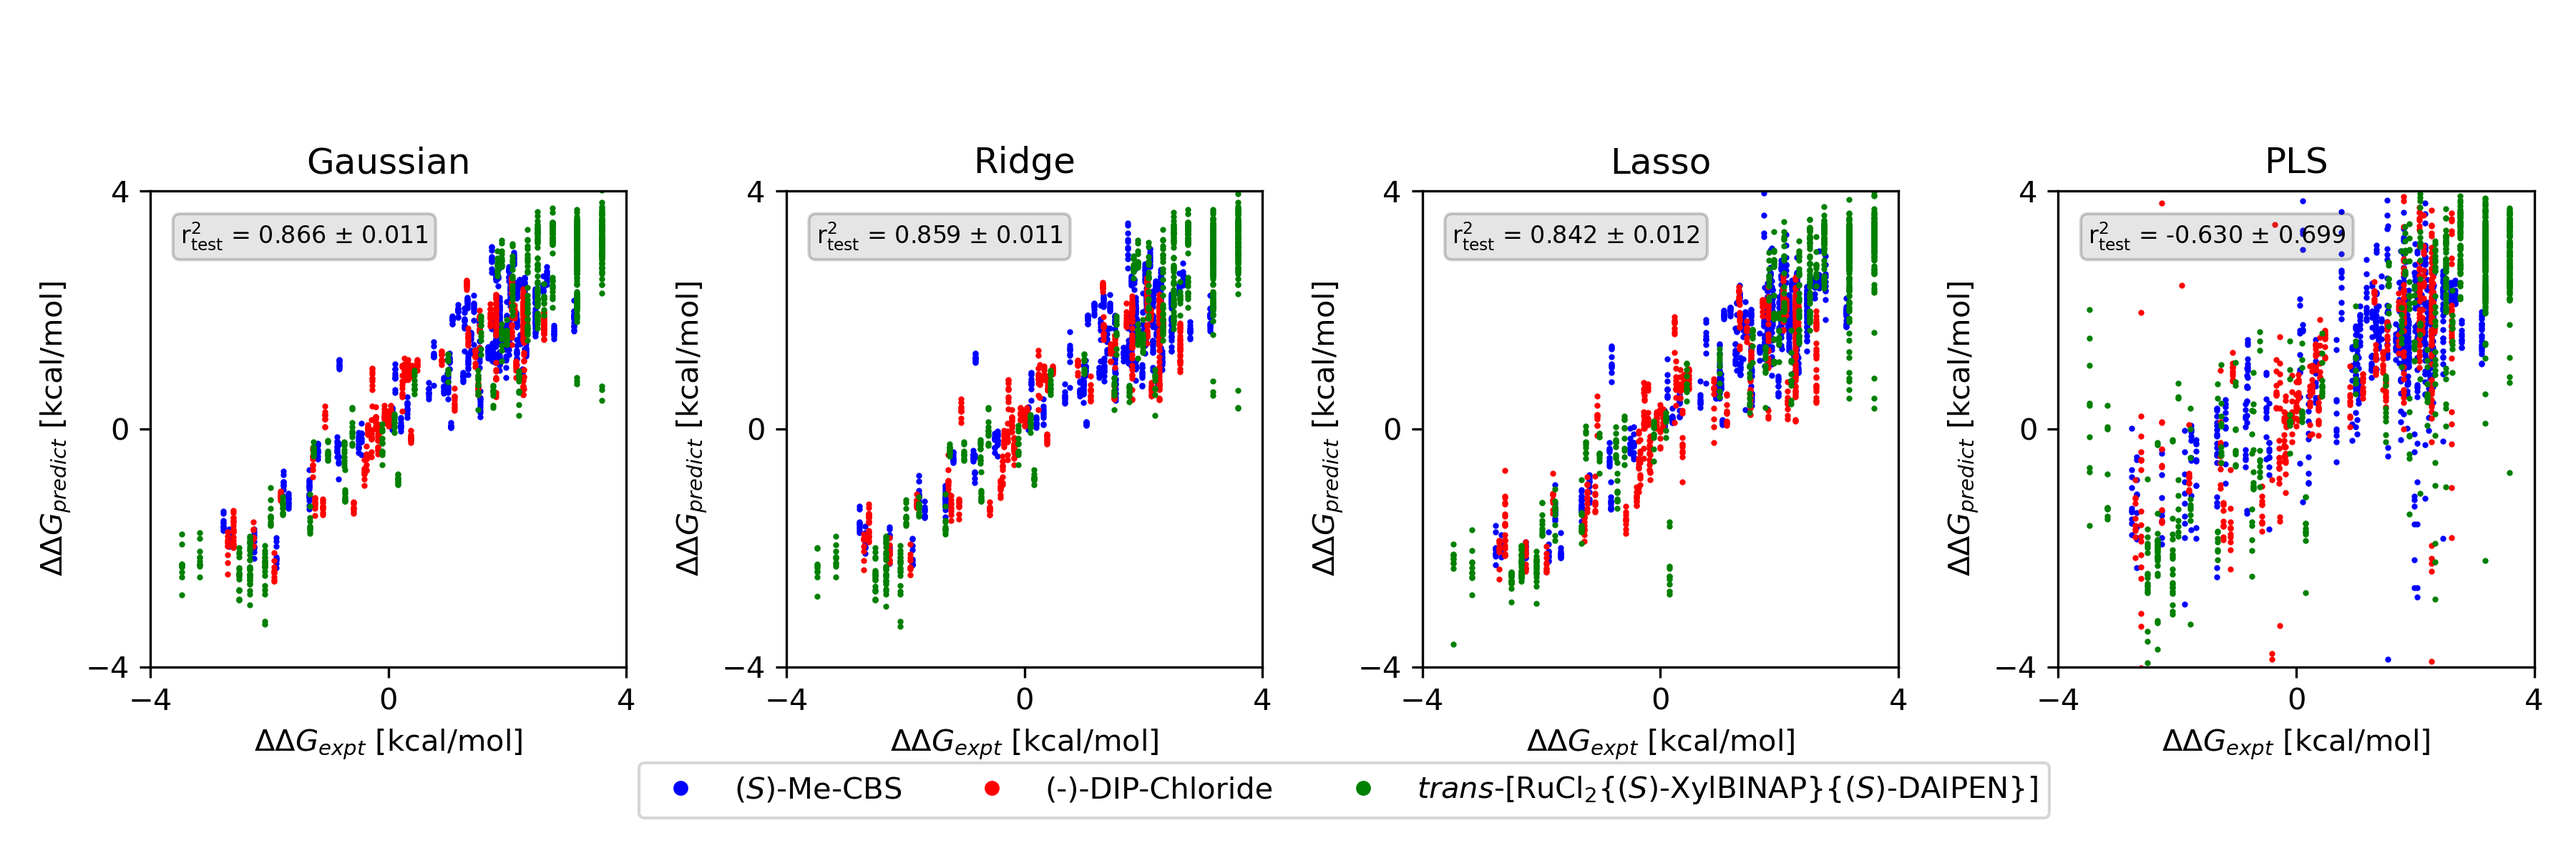
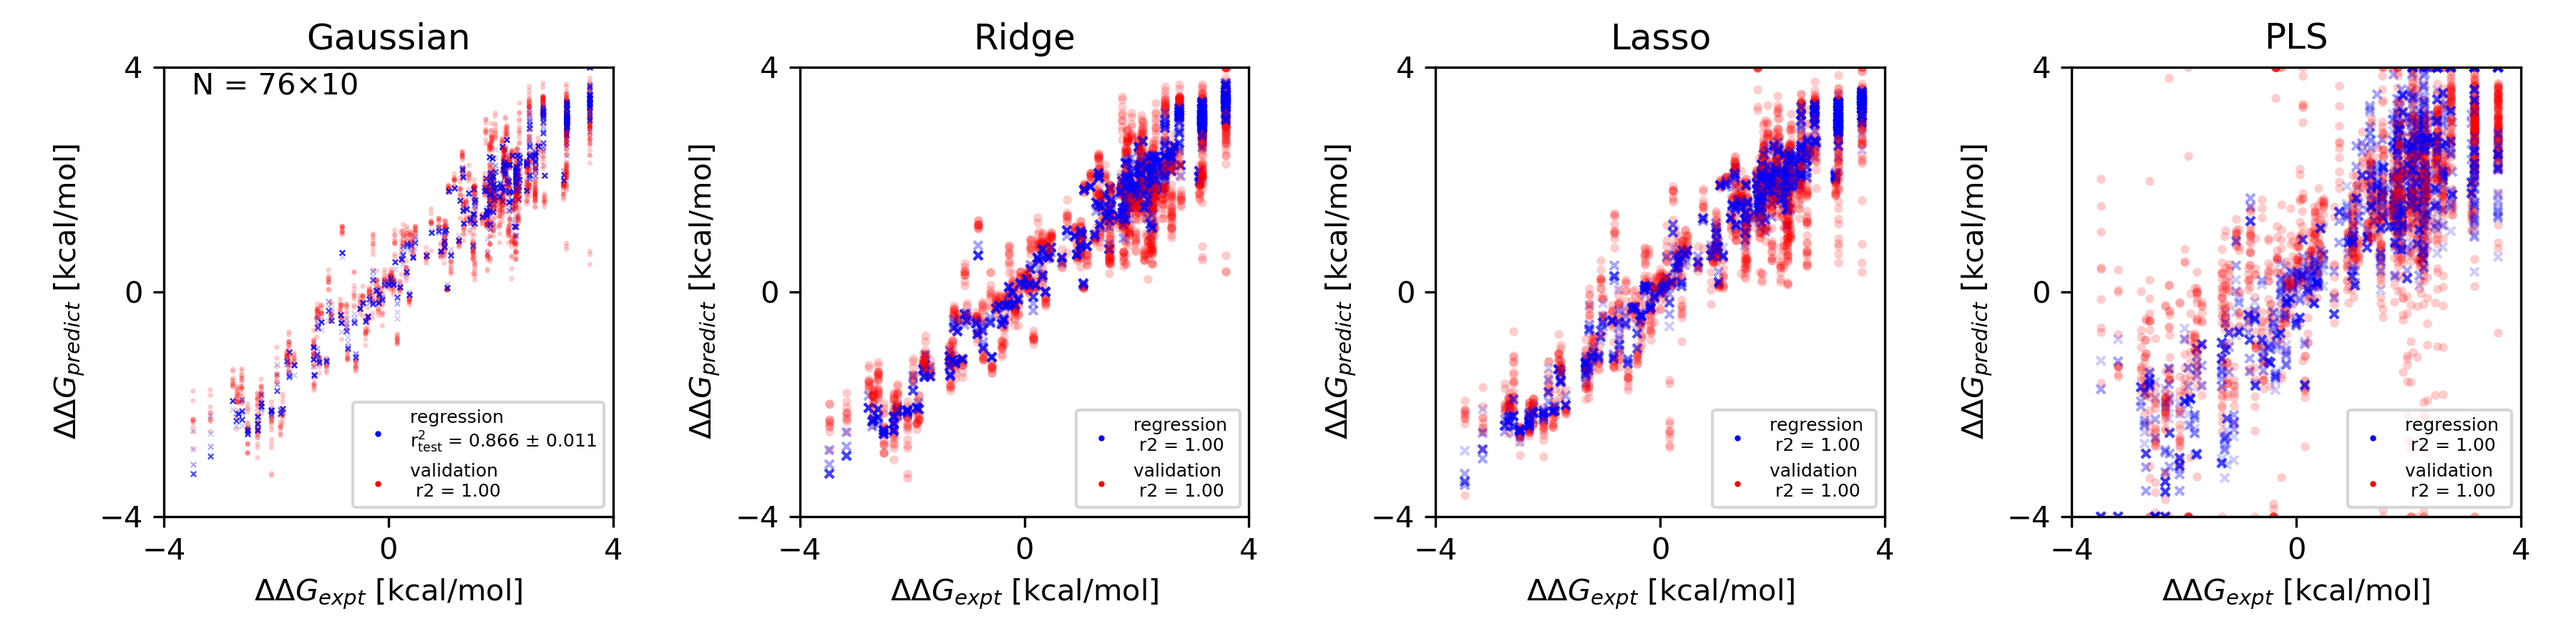
from win

diff --git a/CoMFA_model_lib/graph.py b/CoMFA_model_lib/graph.py
@@ -8,7 +8,6 @@ import numpy as np
 import pandas as pd
 import seaborn as sns
 from matplotlib import cm
-from scipy import stats
 from sklearn.metrics import mean_squared_error, r2_score
 
 # time.sleep(60*60*6)
@@ -79,13 +78,19 @@ for param_name in sorted(glob.glob("../parameter/cube_to_grid/cube_to_grid0.2505
             file_name = os.path.splitext(os.path.basename(file))[0]
             ax = fig.add_subplot(1, 3, i)
             plt.xscale("log")
-            # ax2 = ax.twiny()
+
+            ax2 = ax.twiny()
+            plt.xscale("log")
+
             ax.set_title(label)
             # ax.set_ylim(0.5, 3)
             # ax.set_yticks([0.5, 1.0, 1.5, 2.0, 2.5, 3.0])
             ax.set_ylim(0, 1.0)
-            ax.set_yticks([0.5,  0.6,0.7,0.8,0.9,1.0])
-            ax.set_xticks([0.001, 1, 100])
+            # ax2.set_xlim(100,10000)
+            ax.set_yticks([0.0,0.5,1.0])
+            ax.set_xticks([1, 10,100])
+            ax2.set_xticks([0.01,0.1,1])
+
             # Gaussian = []
             # Lasso = []
             # Ridge = []
@@ -99,22 +104,33 @@ for param_name in sorted(glob.glob("../parameter/cube_to_grid/cube_to_grid0.2505
                 # dfp["method"] = "Gaussian"
                 # dfp["Gaussian"]=True
                 # dfps.append(dfp.copy())
-                for columns in dfp.columns:
+                for _,columns in enumerate(sorted(dfp.columns)):
                     if re.match("Gaussian..*_validation_RMSE", columns):#"Gaussian" in columns and "_validation_RMSE" in columns:
-                        dfp[["regression_r2","validation_r2"]] = dfp[[columns[:-16]+"_regression_RMSE",columns]]
-                        dfp["method"] = "1"+columns[:-16]+""
+                        dfp[["regression_RMSE","validation_RMSE"]] = dfp[[columns[:-16]+"_regression_RMSE",columns]]
+                        dfp["sort"]=_
+                        dfp["method"] = columns[:-16]+""
                         dfp["Gaussian"]=True
+                        dfp["size"]=2
                         dfps.append(dfp.copy())
-                dfp[["regression_r2","validation_r2"]] = dfp[["Lasso_regression_RMSE","Lasso_validation_RMSE"]]
-                dfp["method"] = "3Lasso"
+                # dfp[["regression_r2","validation_r2"]] = dfp[["PLS_regression_RMSE","PLS_validation_RMSE"]]
+                # dfp["method"] = "4PLS"
+                # dfp["Gaussian"]=False
+                # dfps.append(dfp.copy())
+                
+
+                dfp[["regression_RMSE","validation_RMSE"]] = dfp[["Ridge_regression_RMSE","Ridge_validation_RMSE"]]
+                dfp["method"] = "Ridge"
+                dfp["sort"]=_+2
+                dfp["size"]=2
                 dfp["Gaussian"]=False
                 dfps.append(dfp.copy())
-
-                dfp[["regression_r2","validation_r2"]] = dfp[["Ridge_regression_RMSE","Ridge_validation_RMSE"]]
-                dfp["method"] = "2Ridge"
+                dfp[["regression_RMSE","validation_RMSE"]] = dfp[["Lasso_regression_RMSE","Lasso_validation_RMSE"]]
+                dfp["lambda"]/=100
+                dfp["method"] = "Lasso"
+                dfp["sort"]=_+3
+                dfp["size"]=2
                 dfp["Gaussian"]=False
                 dfps.append(dfp.copy())
-
                 # dfp["validation_r2"] = dfp["PLS_validation_RMSE"]
                 # dfp["method"] = "PLS"
                 # dfp["n"] = range(1, len(dfp["lambda"]) + 1)
@@ -137,10 +153,14 @@ for param_name in sorted(glob.glob("../parameter/cube_to_grid/cube_to_grid0.2505
             
             # sns.lineplot(x="lambda", y="validation_r2", data=dfs[(dfs["method"]==column)&dfs["Gaussian"]].sort_values(["method"]), hue="method",errorbar=None,
             #              legend=None, palette="jet_r", ax=ax)
-            sns.lineplot(x="lambda", y="validation_r2", data=dfs.sort_values(["method"],ascending=False), hue="method",errorbar=None,style="method",
+            sns.lineplot(x="lambda", y="validation_RMSE", data=dfs[dfs["method"]=="Lasso"].sort_values(["sort"],ascending=False), hue="method",errorbar=None,style="method",
+                         legend="full" if i==3 else None, color="black", ax=ax2,alpha=1)
+            sns.lineplot(x="lambda", y="regression_RMSE", data=dfs[dfs["method"]=="Lasso"].sort_values(["sort"],ascending=False), hue="method",errorbar=None,style="method",
+                         legend= None, color="black", ax=ax2,alpha=1,size="size")
+            sns.lineplot(x="lambda", y="validation_RMSE", data=dfs[dfs["method"]!="Lasso"].sort_values(["sort"],ascending=False), hue="method",errorbar=None,style="method",
                          legend="full" if i==3 else None, palette="jet_r", ax=ax,alpha=1)
-            sns.lineplot(x="lambda", y="regression_r2", data=dfs.sort_values(["method"],ascending=False), hue="method",errorbar=None,style="method",
-                         legend= None, palette="jet_r", ax=ax,alpha=1)
+            sns.lineplot(x="lambda", y="regression_RMSE", data=dfs[dfs["method"]!="Lasso"].sort_values(["sort"],ascending=False), hue="method",errorbar=None,style="method",
+                         legend= None, palette="jet_r", ax=ax,alpha=1,size="size")
             
             # ax.fill_between(dfs[dfs["method"]=="3Lasso"]["lambda"], dfs[dfs["method"]=="3Lasso"]["validation_r2"]+0.1, dfs[dfs["method"]=="3Lasso"]["validation_r2"]-0.1, alpha=0.1)
             # sns.lineplot(x="lambda", y="validation_r2", data=dfs[~dfs["Gaussian"]].sort_values(["method"]), hue="method", palette="winter",errorbar="ci",
@@ -155,11 +175,17 @@ for param_name in sorted(glob.glob("../parameter/cube_to_grid/cube_to_grid0.2505
             # # 結果の表示
             # print('t統計量 =', t_stat, 'p値 =', p_value)
             # ax.plot([], [], "-", label="PLS\n(≧{:.2f})".format(np.min(np.average(PLS, axis=0))), color="orange", alpha=1)
-            ax.set_xlabel("λ", fontsize=10)
+            ax.set_xlabel("λ (Gaussian, Ridge)", fontsize=10)
+            ax2.set_xlabel("λ (Lasso)", fontsize=10)
+
             # ax2.set_xlabel("n_components", fontsize=10)
             ax.set_ylabel("RMSE [kcal/mol]", fontsize=10)  # $r^2_{test}$
             # ax2.set_xticks([1, 5, 10, 15])  # print("Gaussian", np.std(Gaussian, axis=0))
-        ax.legend(bbox_to_anchor=(1, 1), loc='upper left', fontsize=6, ncols=1)
+        lines_labels=[ax.get_legend_handles_labels() for ax in [ax2,ax]]
+        lines, labels=[sum(lol,[]) for lol in zip(*lines_labels)]
+        ax.legend(lines,labels,bbox_to_anchor=(1, 1), loc='upper left', fontsize=6, ncols=1)
+        ax2.get_legend().remove()
+        # ax2.legend(bbox_to_anchor=(1, 1), loc='upper left', fontsize=6, ncols=1)
 
         fig.tight_layout()
         plt.savefig(param["fig_dir"] + "/λ_result.png", transparent=False, dpi=300)
@@ -206,7 +232,7 @@ for param_name in sorted(glob.glob("../parameter/cube_to_grid/cube_to_grid0.2505
         fig.tight_layout()
         plt.savefig(param["fig_dir"] + "/test_predict.png", transparent=False, dpi=300)
 
-    fig = plt.figure(figsize=(3 * 4, 3 * 1 + 1))
+    fig = plt.figure(figsize=(3 * 4, 3 * 1))
     ax = []
     for _, name in zip(range(4), ["Gaussian", "Ridge", "Lasso", "PLS"]):
         ax_ = fig.add_subplot(1, 4, _ + 1)
@@ -226,14 +252,18 @@ for param_name in sorted(glob.glob("../parameter/cube_to_grid/cube_to_grid0.2505
     #                                          "(-)-DIP-Chloride",
     #                                       "$trans$-[RuC$\mathrm{l_2}${($S$)-XylBINAP}{($S$)-DAIPEN}]",
     #                                      ])):
-    # Gaussians = []
-    # Ridges = []
-    # Lassos = []
-    # PLSs = []
+    Gaussians = []
+    Ridges = []
+    Lassos = []
+    PLSs = []
     Gaussian = [[] for _ in range(rang)]
     Ridge = [[] for _ in range(rang)]
     Lasso = [[] for _ in range(rang)]
     PLS = [[] for _ in range(rang)]
+    Gaussian_regressions = [[] for _ in range(rang)]
+    Ridge_regressions = [[] for _ in range(rang)]
+    Lasso_regressions = [[] for _ in range(rang)]
+    PLS_regressions = [[] for _ in range(rang)]
     exp = []
     for h, (file, data) in enumerate(zip(["../arranged_dataset/cbs.xlsx", "../arranged_dataset/DIP-chloride.xlsx",
                                           "../arranged_dataset/RuSS.xlsx"], ["($S$)-Me-CBS", "(-)-DIP-Chloride",
@@ -243,48 +273,95 @@ for param_name in sorted(glob.glob("../parameter/cube_to_grid/cube_to_grid0.2505
         Ridge_ = []
         Lasso_ = []
         PLS_ = []
+        Gaussian_regression = []
+        Ridge_regression = []
+        Lasso_regression = []
+        PLS_regression = []
         for _ in range(rang):
             save_path = param["out_dir_name"] + "/" + file_name + "/" + str(_)
             dfp = pd.read_excel(save_path + "/λ_result.xlsx").sort_values(["smiles"])
             rmse=np.inf
             for columns in dfp.columns:
-                if "Gaussian" in columns and "_validation" in columns:
+                if "Gaussian0.50" in columns and "_validation" in columns:
                     print(columns)
                     rmse_ = mean_squared_error(dfp["ΔΔG.expt."], dfp[columns],squared=False)
-                    print(rmse_)
+                    # print(rmse_)
                     if rmse_ < rmse:
                         rmse=rmse_
                         column=columns
 
-            Gaussian_.append(dfp[column].values.tolist())#"Gaussian1.00_validation"
-            Ridge_.append(dfp["Ridge_validation"].values.tolist())
-            Lasso_.append(dfp["Lasso_validation"].values.tolist())
-            PLS_.append(dfp["PLS_validation"].values.tolist())
+            Gaussian_.append(dfp[column].where(dfp[column].abs()<4,4*np.sign(dfp[column].values)).values.tolist())#"Gaussian1.00_validation"
+            Ridge_.append(dfp["Ridge_validation"].where(dfp["Ridge_validation"].abs()<4,4*np.sign(dfp["Ridge_validation"].values)).values.tolist())
+            Lasso_.append(dfp["Lasso_validation"].where(dfp["Lasso_validation"].abs()<4,4*np.sign(dfp["Lasso_validation"].values)).values.tolist())
+            PLS_.append(dfp["PLS_validation"].where(dfp["PLS_validation"].abs()<4,4*np.sign(dfp["PLS_validation"].values)).values.tolist())
+            
+            Gaussian_regressions[_].extend(dfp[column[:-11]+"regression"].where(dfp[column].abs()<4,4*np.sign(dfp[column].values)).values.tolist())#"Gaussian1.00_validation"
+            Ridge_regressions[_].extend(dfp["Ridgeregression"].where(dfp["Ridgeregression"].abs()<4,4*np.sign(dfp["Ridgeregression"].values)).values.tolist())
+            Lasso_regressions[_].extend(dfp["Lassoregression"].where(dfp["Lassoregression"].abs()<4,4*np.sign(dfp["Lassoregression"].values)).values.tolist())
+            PLS_regressions[_].extend(dfp["PLSregression"].where(dfp["PLSregression"].abs()<4,4*np.sign(dfp["PLSregression"].values)).values.tolist())
+            Gaussian_regression.append(dfp[column[:-11]+"regression"].where(dfp[column].abs()<4,4*np.sign(dfp[column].values)).values.tolist())#"Gaussian1.00_validation"
+            Ridge_regression.append(dfp["Ridgeregression"].where(dfp["Ridgeregression"].abs()<4,4*np.sign(dfp["Ridgeregression"].values)).values.tolist())
+            Lasso_regression.append(dfp["Lassoregression"].where(dfp["Lassoregression"].abs()<4,4*np.sign(dfp["Lassoregression"].values)).values.tolist())
+            PLS_regression.append(dfp["PLSregression"].where(dfp["PLSregression"].abs()<4,4*np.sign(dfp["PLSregression"].values)).values.tolist())
 
-            Gaussian[_].extend(dfp[column].values.tolist())
-            Ridge[_].extend(dfp["Ridge_validation"].values.tolist())
-            Lasso[_].extend(dfp["Lasso_validation"].values.tolist())
-            PLS[_].extend(dfp["PLS_validation"].values.tolist())
-
+            print(column)
+            Gaussian[_].extend(dfp[column].where(dfp[column].abs()<4,4*np.sign(dfp[column].values)).values.tolist())
+            Ridge[_].extend(dfp["Ridge_validation"].where(dfp["Ridge_validation"].abs()<4,4*np.sign(dfp["Ridge_validation"].values)).values.tolist())
+            Lasso[_].extend(dfp["Lasso_validation"].where(dfp["Lasso_validation"].abs()<4,4*np.sign(dfp["Lasso_validation"].values)).values.tolist())
+            PLS[_].extend(dfp["PLS_validation"].where(dfp["PLS_validation"].abs()<4,4*np.sign(dfp["PLS_validation"].values)).values.tolist())
+        Gaussians.append(Gaussian_)
+        Ridges.append(Ridge_)
+        Lassos.append(Lasso_)
+        PLSs.append(PLS_)
+        # Gaussian_regressions.append(Gaussian_regression)
+        # Ridge_regressions.append(Ridge_regression)
+        # Lasso_regressions.append(Lasso_regression)
+        # PLS_regressions.append(PLS_regression)
         exp.extend(dfp["ΔΔG.expt."].values.tolist())
-
-        alpha=1
-        markersize=1
-        ax[0].plot(np.tile(dfp["ΔΔG.expt."].values, np.array(Gaussian_).shape[0]), np.array(Gaussian_).ravel(), "o",
-                   color=["blue", "red", "green", "orange"][h], label=data, alpha=alpha, markersize=markersize)
-        ax[1].plot(np.tile(dfp["ΔΔG.expt."].values, np.array(Gaussian_).shape[0]), np.array(Ridge_).ravel(), "o",
-                   color=["blue", "red", "green", "orange"][h], label=data, alpha=alpha, markersize=markersize)
-        ax[2].plot(np.tile(dfp["ΔΔG.expt."].values, np.array(Gaussian_).shape[0]), np.array(Lasso_).ravel(), "o",
-                   color=["blue", "red", "green", "orange"][h], label=data, alpha=alpha, markersize=markersize)
-        ax[3].plot(np.tile(dfp["ΔΔG.expt."].values, np.array(Gaussian_).shape[0]), np.array(PLS_).ravel(), "o",
-                   color=["blue", "red", "green", "orange"][h], label=data, alpha=alpha, markersize=markersize)
-
-        ax[3].legend(loc='upper center', bbox_to_anchor=(0.5 - 2, -0.17), ncol=4, fontsize=10, markerscale=4)
+        
+        
+        alpha=0.2
+        markersize=10
+        ax[0].scatter(np.tile(dfp["ΔΔG.expt."].values, np.array(Gaussian_).shape[0]), np.array(Gaussian_).ravel(), s=markersize, c="red",
+                   edgecolor="none",  alpha=alpha)
+        ax[1].scatter(np.tile(dfp["ΔΔG.expt."].values, np.array(Gaussian_).shape[0]), np.array(Ridge_).ravel(), s=markersize,c="red",
+                   edgecolor="none",alpha=alpha )
+        ax[2].scatter(np.tile(dfp["ΔΔG.expt."].values, np.array(Gaussian_).shape[0]), np.array(Lasso_).ravel(),s=markersize,c="red",
+                   edgecolor="red",  alpha=alpha)
+        ax[3].scatter(np.tile(dfp["ΔΔG.expt."].values, np.array(Gaussian_).shape[0]), np.array(PLS_).ravel(), s=markersize,c="red",
+                   edgecolor="red", alpha=alpha)
+        
+        # alpha=0.2
+        # markersize=5
+        
+        ax[0].scatter(np.tile(dfp["ΔΔG.expt."].values, np.array(Gaussian_regression).shape[0]), np.array(Gaussian_regression).ravel(), marker="x",s=markersize,
+                   linewidth=1,color="blue", alpha=alpha)
+        ax[1].scatter(np.tile(dfp["ΔΔG.expt."].values, np.array(Gaussian_regression).shape[0]), np.array(Ridge_regression).ravel(), marker="x",s=markersize,
+                   linewidth=1,color="blue", alpha=alpha)
+        ax[2].scatter(np.tile(dfp["ΔΔG.expt."].values, np.array(Gaussian_regression).shape[0]), np.array(Lasso_regression).ravel(), marker="x",s=markersize,
+                   linewidth=1,color="blue",  alpha=alpha)
+        ax[3].scatter(np.tile(dfp["ΔΔG.expt."].values, np.array(Gaussian_regression).shape[0]), np.array(PLS_regression).ravel(), marker="x",s=markersize,
+                   linewidth=1,color="blue", alpha=alpha)
+        # ax[3].legend(loc='upper center', bbox_to_anchor=(0.5 - 2, -0.17), ncol=4, fontsize=10, markerscale=4)
+    
+        
+        
+    print(Gaussian)
+    print("!!!")
+    print(Gaussians)
 
     ga = [r2_score(exp, pred) for pred in Gaussian]
+
     ri = [r2_score(exp, pred) for pred in Ridge]
     la = [r2_score(exp, pred) for pred in Lasso]
     pls = [r2_score(exp, pred) for pred in PLS]
+
+    ga_regression = [r2_score(exp, pred) for pred in Gaussian_regressions]
+
+    ri_regression = [r2_score(exp, pred) for pred in Ridge_regressions]
+    la_regression = [r2_score(exp, pred) for pred in Lasso_regressions]
+    pls_regression = [r2_score(exp, pred) for pred in PLS_regressions]
+    # pls = [mean_squared_error(exp, pred) for pred in PLS]
     print(np.average(ga), np.std(ga))
     print(np.average(ri), np.std(ri))
     print(np.average(la), np.std(la))
@@ -293,16 +370,32 @@ for param_name in sorted(glob.glob("../parameter/cube_to_grid/cube_to_grid0.2505
     print("Ridge", np.average(np.std(Ridge, axis=0)))
     print("Lasso", np.average(np.std(Lasso, axis=0)))
     print("PLS", np.average(np.std(PLS, axis=0)))
+    ax[0].scatter([],[],alpha=1,c="red",label="validation \n"+"$\mathrm{r^2_{val}}$ = " + "{:.3f} ± {:.3f}".format(np.average(ga), np.std(ga)),s=markersize)
+    ax[0].scatter([],[],alpha=1,c="blue",linewidth=1,label="regression \n"+"$\mathrm{r^2_{reg}}$ = " + "{:.3f} ± {:.3f}".format(np.average(ga_regression), np.std(ga_regression)),s=markersize,marker="x")
+    ax[0].legend(loc='lower right', fontsize=6, ncols=1)
+    # ax[0].text(-3.5, 3.5,"N = {}×{}".format(len(dfp),rang))
+    ax[1].scatter([],[],alpha=1,c="red",label="validation \n"+"$\mathrm{r^2_{val}}$ = " + "{:.3f} ± {:.3f}".format(np.average(ri), np.std(ri)),s=markersize)
+    ax[1].scatter([],[],alpha=1,c="blue",linewidth=1,label="regression \n "+"$\mathrm{r^2_{reg}}$ = " + "{:.3f} ± {:.3f}".format(np.average(ri_regression), np.std(ri_regression)),s=markersize,marker="x")
+    ax[1].legend(loc='lower right', fontsize=6, ncols=1)
+    ax[2].scatter([],[],alpha=1,c="red",label="validation \n " + "$\mathrm{r^2_{val}}$ ="+" {:.3f} ± {:.3f}".format(np.average(la), np.std(la)),s=markersize)
+    ax[2].scatter([],[],alpha=1,c="blue",linewidth=1,label="regression \n " + "$\mathrm{r^2_{reg}}$ ="+" {:.3f} ± {:.3f}".format(np.average(la_regression), np.std(la_regression)),s=markersize,marker="x")
+    ax[2].legend(loc='lower right', fontsize=6, ncols=1)
+    ax[3].scatter([],[],alpha=1,c="red",label="validation \n " + "$\mathrm{r^2_{val}}$ ="+" {:.3f} ± {:.3f}".format(np.average(pls), np.std(pls)),s=markersize)
+    ax[3].scatter([],[],alpha=1,c="blue",linewidth=1,label="regression \n " + "$\mathrm{r^2_{reg}}$ ="+" {:.3f} ± {:.3f}".format(np.average(pls_regression), np.std(pls_regression)),s=markersize,marker="x")
+    ax[3].legend(loc='lower right', fontsize=6, ncols=1)
 
-    props = dict(boxstyle='round', facecolor='gray', alpha=0.2)
-    ax[0].text(-3.5, 3.5, "$\mathrm{r^2_{test}}$ = " + "{:.3f} ± {:.3f}".format(np.average(ga), np.std(ga)),
-               verticalalignment='top', bbox=props, fontsize=8)
-    ax[1].text(-3.5, 3.5, "$\mathrm{r^2_{test}}$ = " + "{:.3f} ± {:.3f}".format(np.average(ri), np.std(ri)),
-               verticalalignment='top', bbox=props, fontsize=8)
-    ax[2].text(-3.5, 3.5, "$\mathrm{r^2_{test}}$ = " + "{:.3f} ± {:.3f}".format(np.average(la), np.std(la)),
-               verticalalignment='top', bbox=props, fontsize=8)
-    ax[3].text(-3.5, 3.5, "$\mathrm{r^2_{test}}$ = " + "{:.3f} ± {:.3f}".format(np.average(pls), np.std(pls)),
-               verticalalignment='top', bbox=props, fontsize=8)
+
+
+    # props = dict(boxstyle='round', facecolor='gray', alpha=0.2)
+    # ax[0].text(-3.5, 3.5, "$\mathrm{r^2_{test}}$ = " + "{:.3f} ± {:.3f}".format(np.average(ga), np.std(ga)),
+    #            verticalalignment='top', bbox=props, fontsize=8)
+    # ax[1].text(-3.5, 3.5, "$\mathrm{r^2_{test}}$ = " + "{:.3f} ± {:.3f}".format(np.average(ri), np.std(ri)),
+    #            verticalalignment='top', bbox=props, fontsize=8)
+    # ax[2].text(-3.5, 3.5, "$\mathrm{r^2_{test}}$ = " + "{:.3f} ± {:.3f}".format(np.average(la), np.std(la)),
+    #            verticalalignment='top', bbox=props, fontsize=8)
+    # ax[3].text(-3.5, 3.5, "$\mathrm{r^2_{test}}$ = " + "{:.3f} ± {:.3f}".format(np.average(pls), np.std(pls)),
+    #            verticalalignment='top', bbox=props, fontsize=8)
     fig.tight_layout()
 
     plt.savefig(param["fig_dir"] + "/validation.png", transparent=False, dpi=300)
+    print("calculate success")

diff --git a/CoMFA_model_lib/run_CoMFA.py b/CoMFA_model_lib/run_CoMFA.py
@@ -100,6 +100,7 @@ warnings.simplefilter('ignore')
 #     print(save_name)
 
 
+#regressionだけにする。
 def regression_comparison(df, dfp, gaussian_penalize, save_name, n,n_splits,features):
     os.makedirs(save_name + "/molecular_field_csv",exist_ok=True)
     df_coord = pd.read_csv(gaussian_penalize + "/coordinates_yz.csv").sort_values(['x', 'y', "z"],
@@ -274,6 +275,8 @@ def regression_comparison(df, dfp, gaussian_penalize, save_name, n,n_splits,feat
     dfp.to_csv(save_name + "/λ_result.csv", index=False)
     print(save_name)
 
+#CV
+
 
 # def energy_to_Boltzmann_distribution(mol, RT=1.99e-3 * 273):
 #     energies = np.array([float(conf.GetProp("energy")) for conf in mol.GetConformers()])
@@ -387,13 +390,13 @@ if __name__ == '__main__':
     #time.sleep(60*60*24*2.5)
     inputs=[]
     inputs_=[]
-    for param_name in sorted(glob.glob("../parameter/cube_to_grid/cube_to_grid0.250510.txt"),reverse=True):
+    for param_name in sorted(glob.glob("../parameter/cube_to_grid/20240531/cube_to_grid0.250510.txt"),reverse=True):
         print(param_name)
         with open(param_name, "r") as f:
             param = json.loads(f.read())
         print(param)
         start = time.perf_counter()  # 計測開始
-        for file in glob.glob("../arranged_dataset/RuSS.xlsx"):
+        for file in glob.glob("../arranged_dataset/*.xlsx"):
             df = pd.read_excel(file).dropna(subset=['smiles']).reset_index(drop=True)  # [:50]
             file_name = os.path.splitext(os.path.basename(file))[0]
             features_dir_name = param["grid_coordinates"] + file_name

diff --git a/CoMFA_model_lib/cube_to_grid.py b/CoMFA_model_lib/cube_to_grid.py
@@ -156,7 +156,7 @@ if __name__ == '__main__':
     print("len=",len(dfs))
     dfs["mol"] = dfs["smiles"].apply(calculate_conformation.get_mol)
 
-    for param_name in sorted(glob.glob("../parameter/cube_to_grid/cube_to_grid0.250510.txt"),reverse=True):
+    for param_name in sorted(glob.glob("../parameter/cube_to_grid/20240531/cube_to_grid0.250510.txt"),reverse=True):
         df = copy.deepcopy(dfs)
         with open(param_name, "r") as f:
             param = json.loads(f.read())
